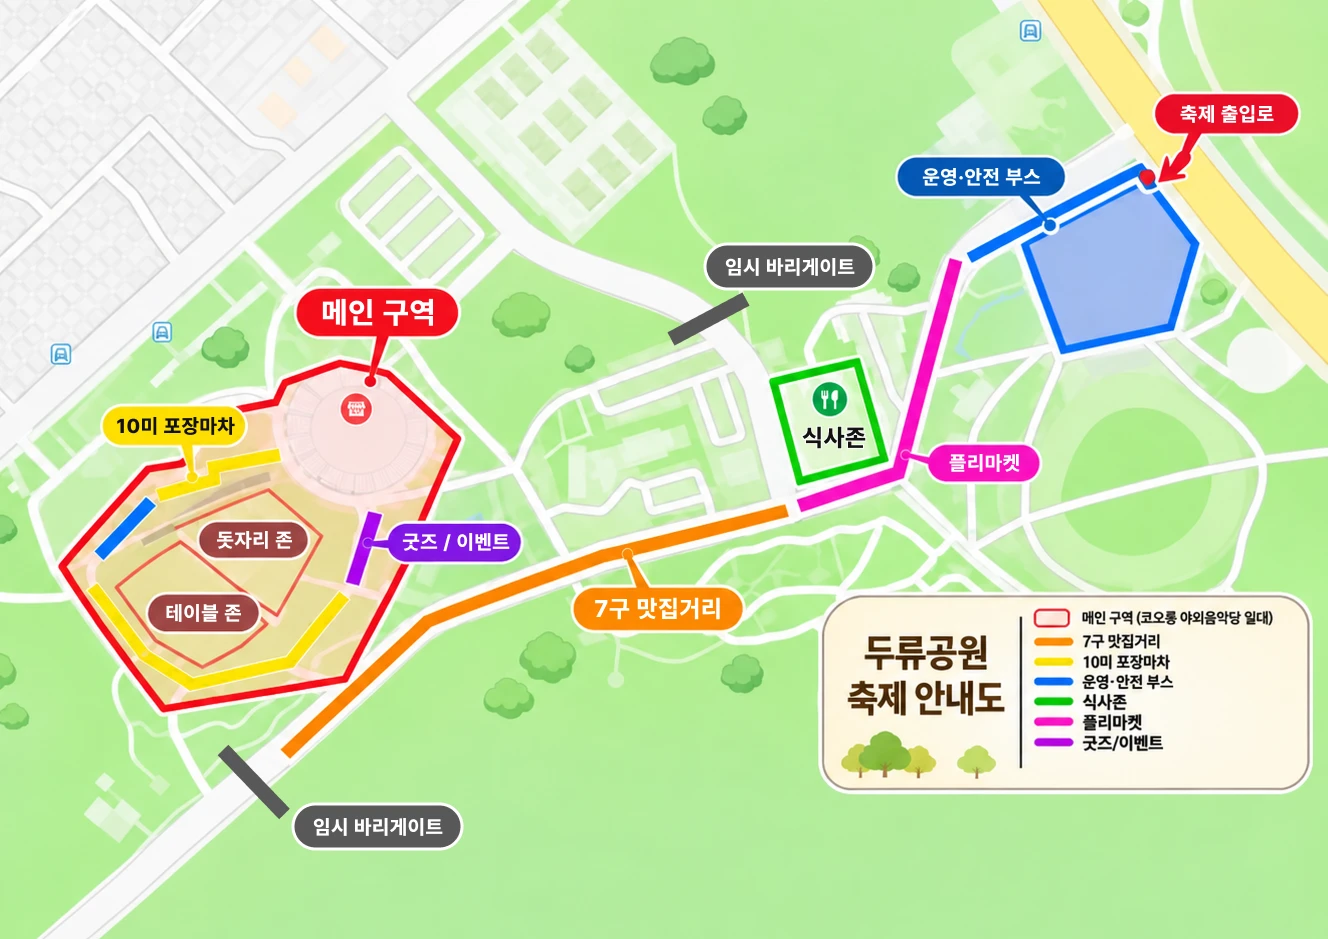
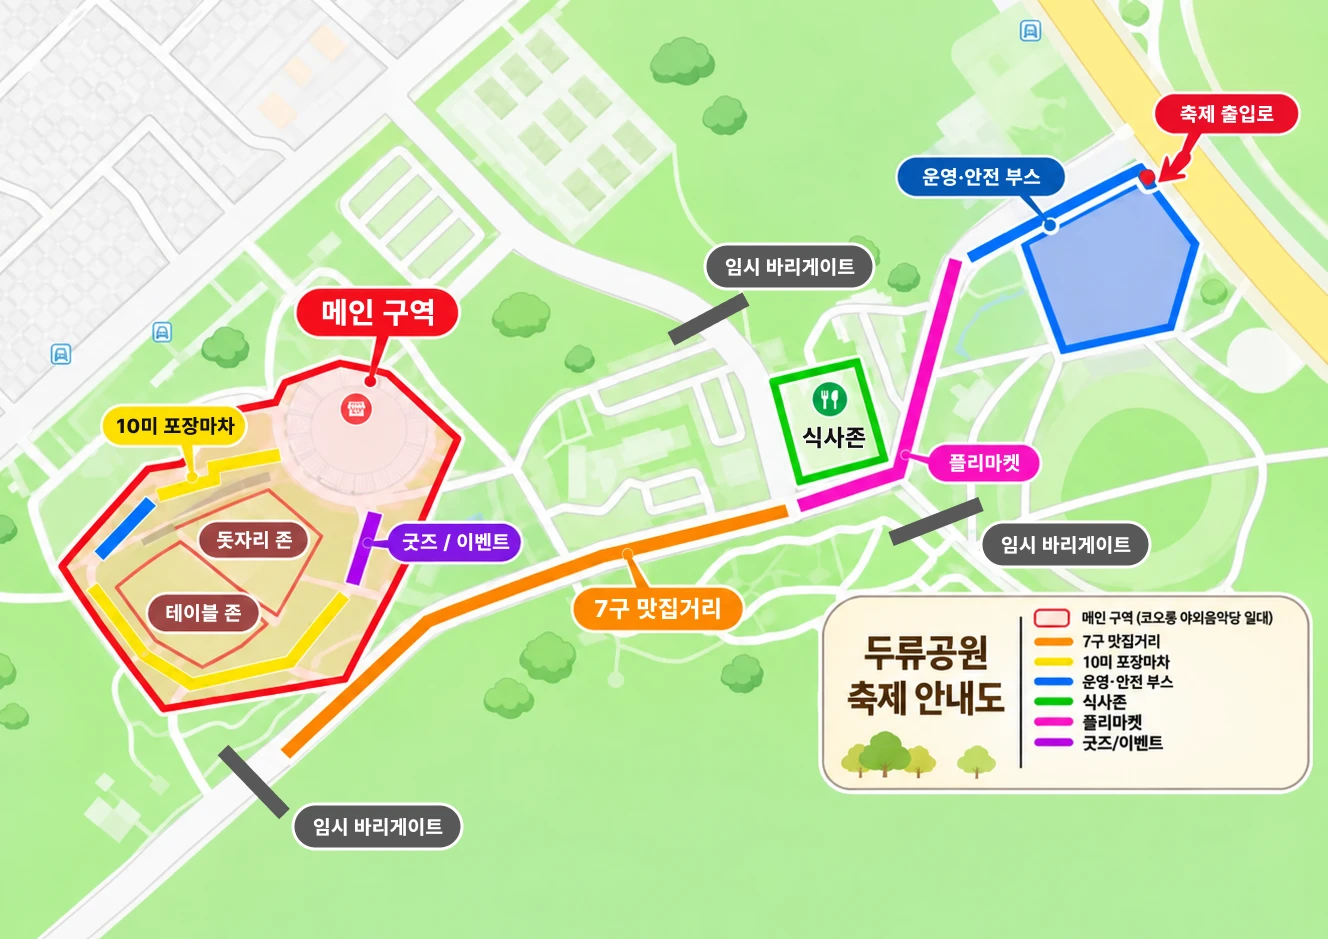
docs: Y.지도 v2 (바리게이트 ⑶ 반영, 허가·공문 검토)
- Y_축제전체_1안내도.webp: 임시 바리게이트 ⑶ 추가본으로 교체
- Y_축제전체_지도.md: 맨 앞 v1→v2 변경점, ⑶ 상태 수정, 미확정 2번 정함,
  미확정 7번 중복 정리(화장실 공문 → 8번), 5-1 허가·공문 필요(9~14번) 추가
- Y_메인구역_지도.md: 변경사항 없음 (변경점 장만 추가)
- Y_지도_수정이력.md 추가 (이전 버전은 hyunhee 브랜치 Y.지도/이전버전/)

Changed region(s): [[0.741, 0.5559, 0.8645, 0.6177], [0.6483, 0.525, 0.741, 0.5868]]

diff --git a/Y.지도/Y_축제전체_지도.md b/Y.지도/Y_축제전체_지도.md
@@ -1,5 +1,19 @@
 # 축제 전체 지도 (두류공원 축제 안내도)
 
+## 이전 버전과 달라진 점 (v1 → v2)
+
+> 이전 버전: `이전버전/Y.지도_v1/Y_축제전체_지도.md` (2026-11-18 푸시)
+
+| 위치 | v1 | v2 |
+|---|---|---|
+| ① 안내도 이미지 `Y_축제전체_1안내도.webp` | 임시 바리게이트 2곳 (⑴⑵) | **바리게이트 ⑶ 추가본으로 교체** (2.28자유광장 서남쪽 갈림길 → 남동쪽 공원순환로) |
+| 6-1 임시 바리게이트 ⑶ 상태 | ① 지도에 아직 없음 → 추가 필요 | ① 지도에 있음 (2026-11-18 안내도 수정본) |
+| 5장 미확정 2번 (⑶ 위치·지도 추가) | 미확정 | **정함** (가로선, 다음 버전에서 삭제) |
+| 5장 미확정 번호 | 7번이 두 개 (⑶ 팀 확인, 화장실 공문) | ⑶ 팀 확인 = 7번, 화장실 공문 = **8번** |
+| 5-1 허가·공문 필요 (검토) | 없음 | **새로 추가** (9~14번: 공원순환로 차량 통제, 2·3공영주차장, 2.28자유광장 앞 광장, 야외음악당·잔디광장 대관, 광장휴게소·관광정보센터 개방 시간). 다른 파트에서 정리했을 수 있음 |
+| 6장 출처 3번 | 2026-11-18 버전 | 2026-11-18 수정본 (바리게이트 ⑶ 추가) |
+
+
 > 축제장 전체 구역과 방문객 동선, 편의시설(더위 쉼터·의료실·화장실·물품보관소) 배치 기준.
 > 메인구역 세부는 [Y_메인구역_지도.md](Y_메인구역_지도.md) 참고.
 
@@ -63,9 +77,9 @@
 |---|---|---|---|
 | ⑴ | 좌측 하단. 공원순환로를 따라 쭉 가면 오르막길로 이어지는데, **오르막길 시작 부근**에 배치 (길 끝에 주차장) | 7구 맛집거리 끝 지점 통제 | ① 지도에 있음 |
 | ⑵ | 야외음악당로와 공원순환로가 만나는 쪽 길 (식사존 좌측에 이어진 길). **두류공원3공영주차장 입구 근처**에 배치 | **비상차량 진입이 필요할 때와 폐장 때 개방** (출입로 혼잡 줄이기 위해) | ① 지도에 있음 |
-| ⑶ (추가) | 플리마켓이 꺾이는 갈림길(2.28자유광장 서남쪽)에서 **남동쪽으로 이어지는 공원순환로** | 이 길도 막기로 함 | **① 지도에 아직 없음 → 추가 필요** |
+| ⑶ (추가) | 플리마켓이 꺾이는 갈림길(2.28자유광장 서남쪽)에서 **남동쪽으로 이어지는 공원순환로** | 이 길도 막기로 함 | ① 지도에 있음 (2026-11-18 안내도 수정본) |
 
-> ⑴⑵ `[확인]` 지도 담당 설명, ⑶ `[확인]` 지도 담당 결정 (2026-11-18). 세부 위치는 미확정 2번.
+> ⑴⑵ `[확인]` 지도 담당 설명, ⑶ `[확인]` 지도 담당 결정 (2026-11-18). ⑶ 위치는 수정된 ① 안내도 기준 (미확정 2번 정함). 막아도 되는지 팀 확인은 미확정 7번.
 
 ---
 
@@ -103,7 +117,7 @@
 - **출입로~운영·안전 부스 쪽**은 도서관·2.28자유광장 화장실이 몰려 있어 비교적 충분.
 - **7구 맛집거리 중간~바리게이트⑴ 구간**은 확인된 기존 화장실이 없음 → 이동식 화장실 차량 후보 구간.
 - **메인구역**은 야외음악당 화장실만 확인됨. 사람이 가장 많이 모이는 곳이라 이동식 추가 검토 필요.
-- 2.28자유광장 화장실은 **18:00 닫힘**으로 등록돼 있음 → 축제 저녁 시간 개방 연장을 위해 **공문 발송 필요** (미확정 7번). `[확인]` 지도 담당 결정 (2026-11-18)
+- 2.28자유광장 화장실은 **18:00 닫힘**으로 등록돼 있음 → 축제 저녁 시간 개방 연장을 위해 **공문 발송 필요** (미확정 8번). `[확인]` 지도 담당 결정 (2026-11-18)
 
 > 조사 한계: 참고한 목록(달서구 414곳)은 이름순 앞 200곳만 확인함. 성당못·인물동산·공영주차장·관광정보센터 이름의 화장실은 뒷부분에 있을 수 있어 미확인.
 
@@ -114,13 +128,27 @@
 | 번호 | 항목 | 이유 | 확인 주체 | 확인 기한 |
 |---|---|---|---|---|
 | 1 | 메인구역 북서쪽(야외음악당로·버스정류장·코오롱야외음악당 주차장 쪽, 야당 근처) 통제 여부 | 공식 출입로는 한 곳이지만 이쪽으로 방문객이 들어올 수 있음. 스태프·섭외자 출입구와도 겹침. 막을지 어떻게 할지 지도 담당도 고민 중 | 팀회의 | 다음 팀회의 |
-| 2 | 임시 바리게이트 ⑶ 정확한 위치, ① 지도에 추가 | 2026-11-18 추가 결정, 지도 미반영 | 지도 담당 | 다음 지도 버전 |
+| 2 | ~~임시 바리게이트 ⑶ 정확한 위치, ① 지도에 추가~~ | ~~2026-11-18 추가 결정, 지도 미반영~~ | ~~지도 담당~~ | **정함** (2026-11-18, ① 안내도에 ⑶ 추가) |
 | 3 | 기존 화장실 실제 위치·칸 수·축제 기간(저녁) 개방 여부 | 공공데이터는 등록 기준이라 실제와 다를 수 있음. 광장휴게소·관광정보센터·야외음악당은 세부 정보 없음 | 지도 담당 → 공원관리사무소 문의 (053-803-7470) | 편의시설 배치 전 |
 | 4 | 광장휴게소·대구관광정보센터의 화장실 외 용도 | 쉼터 등으로 쓸 가능성 검토 중 | 지도 담당 / 팀회의 | 편의시설 배치 전 |
 | 5 | 더위 쉼터·의료실·물품보관소·이동식 화장실 위치 | 4장 작성 중 | 지도 담당 (안전 부스 목록은 해당 파트) | 다음 지도 버전 |
 | 6 | ① 안내도의 메인구역 부분 수정 | Y_메인구역_지도.md와 배치가 다름 | 지도 담당 | 다음 지도 버전 |
-| 7 | 2.28자유광장 화장실(동편·서편) 축제 기간 저녁 개방 연장 **공문 발송** | 등록 개방시간 09:00~18:00이라 저녁 프로그램 시간에 닫힘 | 지도 담당 → 관리 주체(공원관리사무소 등) 확인 후 공문 | 축제 준비 일정에 맞춰 (공문 일정 확정 시 기입) |
 | 7 | 2.28자유광장 아래(서남쪽 갈림길에서 남동쪽으로 이어지는 공원순환로) 통제 — 바리게이트 ⑶ | 지도 담당이 **막기로 정하긴 했는데, 이렇게 해도 되는지** 팀 확인 필요. 정확한 위치는 2번 | 팀회의 | 다음 팀회의 |
+| 8 | 2.28자유광장 화장실(동편·서편) 축제 기간 저녁 개방 연장 **공문 발송** | 등록 개방시간 09:00~18:00이라 저녁 프로그램 시간에 닫힘 | 지도 담당 → 관리 주체(공원관리사무소 등) 확인 후 공문 | 축제 준비 일정에 맞춰 (공문 일정 확정 시 기입) |
+
+### 5-1. 허가·공문 필요 (검토)
+
+> 지도에 쓰는 공간 대부분이 공공시설이라 허가·공문이 필요할 가능성이 큼. `[해석]`
+> **다른 파트(H 등)에서 이미 정리했을 가능성 있음** → 정리돼 있으면 그 파트를 참고하도록 연결만 하고, 없으면 여기서 챙김. `[확인]` 지도 담당 (2026-11-18)
+
+| 번호 | 대상 | 필요해 보이는 이유 | 관련 구역 | 확인 주체 |
+|---|---|---|---|---|
+| 9 | 공원순환로 차량 통제 | 기존 차도를 축제거리로 쓰려면 교통 통제 허가 필요 가능 (경찰서·구청 등) | 0~3, 바리게이트 ⑴⑵⑶ | H파트 정리 여부 확인 → 없으면 지도 담당 |
+| 10 | 두류공원2공영주차장 사용 | 주차장을 막고 식사존으로 쓰려면 사용 허가 필요 | 5 식사존 | 다른 파트 정리 여부 확인 → 없으면 지도 담당 |
+| 11 | 두류공원3공영주차장 입구 쪽 통제 | 바리게이트 ⑵가 주차장 입구 근처라 이용 차량 영향 | 바리게이트 ⑵ | 다른 파트 정리 여부 확인 → 없으면 지도 담당 |
+| 12 | 2.28자유광장 앞 광장 사용 | 운영·안전 부스 자리로 쓰려면 광장 사용 허가 필요 | 1 운영·안전 | H파트 정리 여부 확인 → 없으면 지도 담당 |
+| 13 | 코오롱야외음악당·잔디광장 대관 | 메인무대·잔디(A~G, X~Z) 사용 | 4 메인구역 | 다른 파트 정리 여부 확인 → 없으면 지도 담당 |
+| 14 | 광장휴게소·대구관광정보센터 개방 시간 | 화장실을 축제 시간(저녁)에 쓰려면 협의 필요 가능 | 5 식사존, 3 7구 맛집거리 | 지도 담당 (미확정 3·4번과 함께) |
 
 ---
 
@@ -130,7 +158,7 @@
 |---|---|---|---|---|
 | 1 | 대구광역시 달서구 공중화장실 목록 (공공데이터 기반, 최신 자료 기준일 2024-12-31) | [devcomma 공중화장실 찾기](https://tools.devcomma.com/tools/public-toilet-finder/%EB%8C%80%EA%B5%AC%EA%B4%91%EC%97%AD%EC%8B%9C/%EB%8B%AC%EC%84%9C%EA%B5%AC) | 두류공원 주변 화장실 이름·주소·개방시간·설비 | `[확인]` 앞 200곳만 확인 |
 | 2 | 대구 두류공원 소개 (편의시설) | [tripinfo](https://m.tripinfo.co.kr/info.html?content_type_id=12&content_id=126131), [ktriptips](https://www.ktriptips.com/kor/tourspot/126131) | 야외음악당·문화예술회관 쪽 화장실 있음, 공원관리사무소 연락처 | `[확인]` |
-| 3 | 축제 전체 안내도 | `Y_축제전체_1안내도.webp` (지도 담당 제공, GPT 제작, 2026-11-18 버전) | 구역·동선·바리게이트 위치 | `[확인]` 구역·순서 / `[추정]` 길 모양·거리 |
+| 3 | 축제 전체 안내도 | `Y_축제전체_1안내도.webp` (지도 담당 제공, GPT 제작, 2026-11-18 수정본: 바리게이트 ⑶ 추가) | 구역·동선·바리게이트 위치 | `[확인]` 구역·순서 / `[추정]` 길 모양·거리 |
 | 4 | 실제 위성지도 | `Y_축제전체_2위성.webp` (지도 담당 제공) | 실제 길·주차장·시설 위치, 광장휴게소 화장실 표시 | `[확인]` |
 | 5 | 지도 담당 설명 | 대화 (2026-11-18) | 구역별 설명, 바리게이트, 편의시설 배치 원칙 | `[확인]` |
 
@@ -138,5 +166,7 @@
 
 ## 변경 기록
 - 2026-11-18: 최초 작성 (구역 0~6 설명, 바리게이트 ⑶ 추가 결정, 편의시설 배치 원칙, 기존 화장실 조사)
-- 2026-11-18: 2.28자유광장 화장실 저녁 개방 공문 필요 추가 (미확정 7번)
+- 2026-11-18: 2.28자유광장 화장실 저녁 개방 공문 필요 추가 (미확정 8번)
 - 2026-11-18: 3-1에 운영·안전 부스 참여 물품(스탬프북·팔찌) 배부는 M파트 담당 예정 추가, 5장 미확정 1번(야당 근처)에 설명 보강, 7번(2.28자유광장 아래 길 통제, 팀회의) 추가
+- 2026-11-18: 5-1 허가·공문 필요 항목(9~14번) 추가, 공문 항목 번호 7 → 8 (7번 중복 정리)
+- 2026-11-18: ① 안내도를 바리게이트 ⑶ 추가본으로 교체, 6-1 ⑶ 상태 수정, 미확정 2번 정함

diff --git a/Y.지도/Y_지도_수정이력.md b/Y.지도/Y_지도_수정이력.md
@@ -1,0 +1,9 @@
+# Y. 지도 — 수정 이력
+
+> Y.지도 버전별 변경 흐름. 각 버전 파일 맨 앞에는 직전 버전과의 차이만 적고, 전체 흐름은 이 파일에 적음.
+> **폴더 구조:** `Y.지도/` 바로 아래 = 항상 최신 버전 (다른 파트 링크 `../../Y.지도/파일명`이 깨지지 않게). 이전 버전은 `이전버전/Y.지도_vN/`에 보관 (main에는 올리지 않음).
+
+| 버전 | 날짜 | 파일 | 변경 내용 |
+|---|---|---|---|
+| v1 | 2026-11-18 | Y_메인구역_지도.md, Y_축제전체_지도.md, 지도 이미지 5장 | 최초 작성. 메인구역 구획(A~G, X~Z)·지칭 규칙, 축제 전체 구역 0~6·동선·임시 바리게이트 ⑴⑵⑶ 결정·편의시설 배치 원칙·기존 화장실 조사. (`이전버전/Y.지도_v1/`에 보관) |
+| v2 | 2026-11-18 | Y_축제전체_지도.md, Y_축제전체_1안내도.webp | 안내도에 바리게이트 ⑶ 추가, 미확정 2번 정함, 미확정 7번 중복 정리(화장실 공문 → 8번), 5-1 허가·공문 필요(9~14번) 추가. Y_메인구역_지도.md는 변경 없음 |

diff --git a/Y.지도/Y_메인구역_지도.md b/Y.지도/Y_메인구역_지도.md
@@ -1,5 +1,12 @@
 # 메인구역 지도
 
+## 이전 버전과 달라진 점 (v1 → v2)
+
+> 이전 버전: `이전버전/Y.지도_v1/Y_메인구역_지도.md` (2026-11-18 푸시)
+
+**변경사항 없음.** (지도 이미지 3장도 같음)
+
+
 > **메인구역 = 메인무대 + A~G + X·Y·Z (X-1 포함)** `[확인]` 지도 담당 결정 (2026-11-18)
 
 - 메인무대: 코오롱야외음악당 (aka. 야당) — 대구 달서구 야외음악당로 180 `[확인]` (출처 1)
